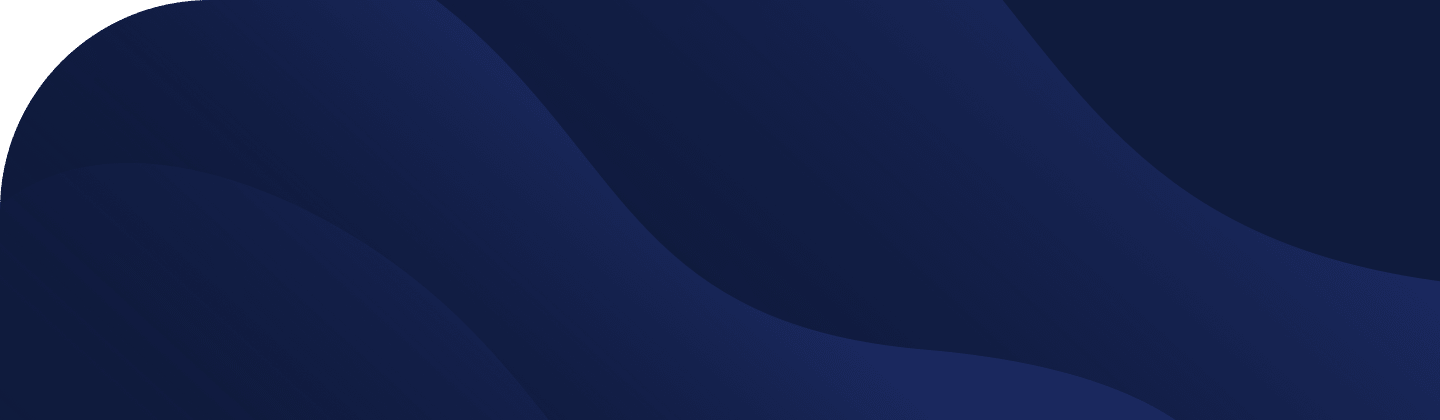
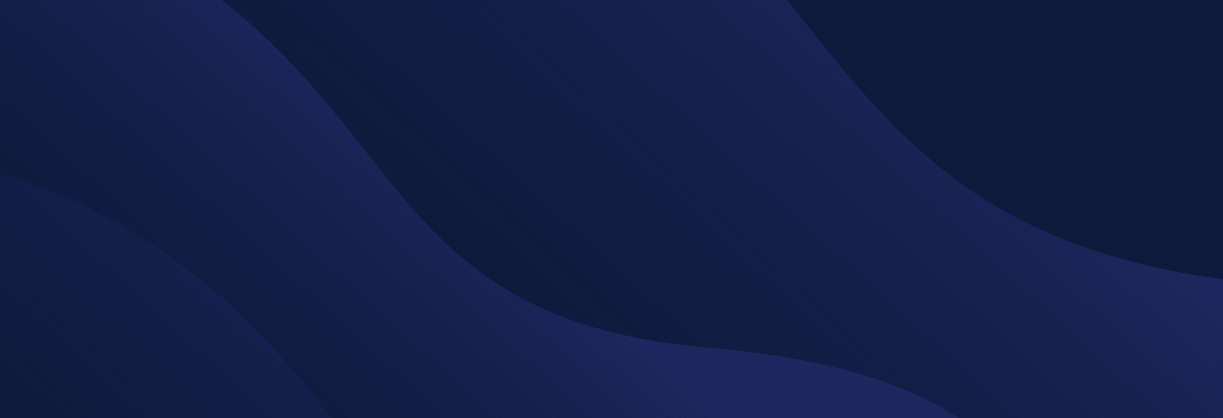
project finished

diff --git a/css/style.css b/css/style.css
@@ -14,7 +14,7 @@
 
 body {
     font-family: 'Raleway', sans-serif;
-    background: url("/images/bg-mobile.png");
+    background: url(../images/bg-mobile.png) repeat 0 0;
     height: 100vh;
     display: flex;
     justify-content: center;
@@ -140,7 +140,7 @@ body {
     }
 
     100% {
-        width: 220px;
+        width: 81.5%;
     }
 }
 
@@ -224,11 +224,16 @@ footer a {
     color: hsl(227, 41%, 67%); 
 }
 
+@media only screen and (min-width: 362px) {
+    body {
+        background: url(../images/bg-desktop.png) repeat center center;
+        background-size: 200%;
+    }
+}
+
+
 @media only screen and (min-width: 1360px) {
 
-    body {
-        background: url(/images/bg-desktop.png);
-    }
     .card {
         flex-flow: row wrap;
         align-items: flex-end;
@@ -263,7 +268,7 @@ footer a {
         }
 
         100% {
-            width: 489px;
+            width: 81.5%;
         }
     }
 
